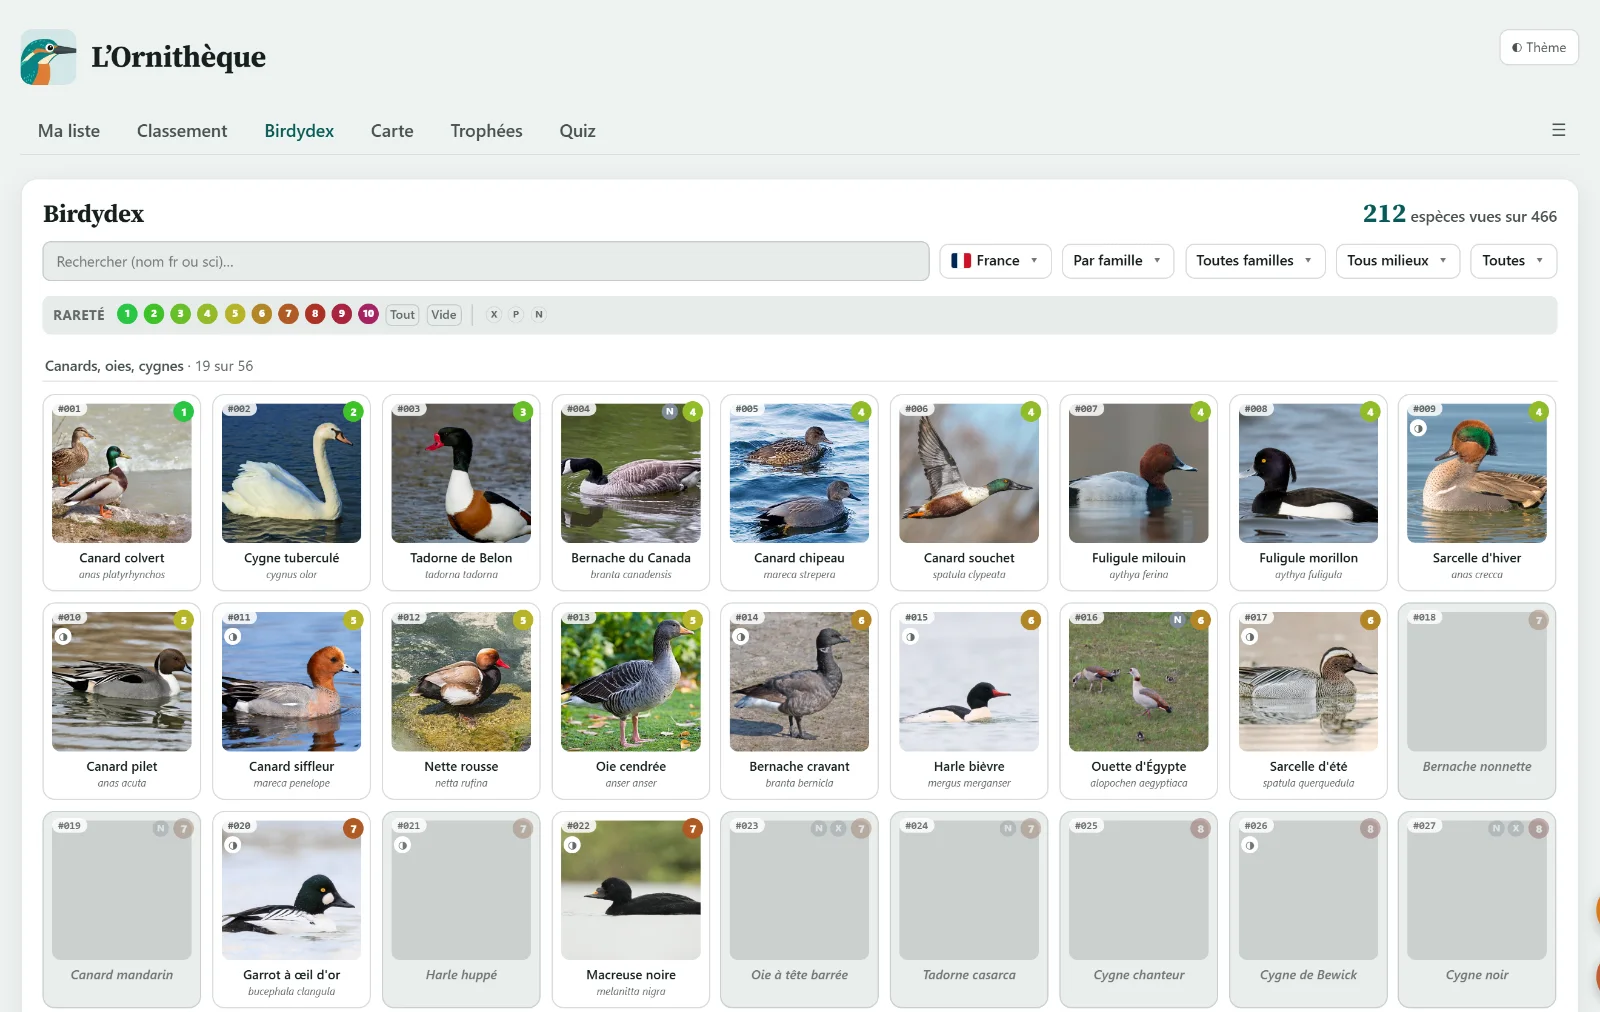
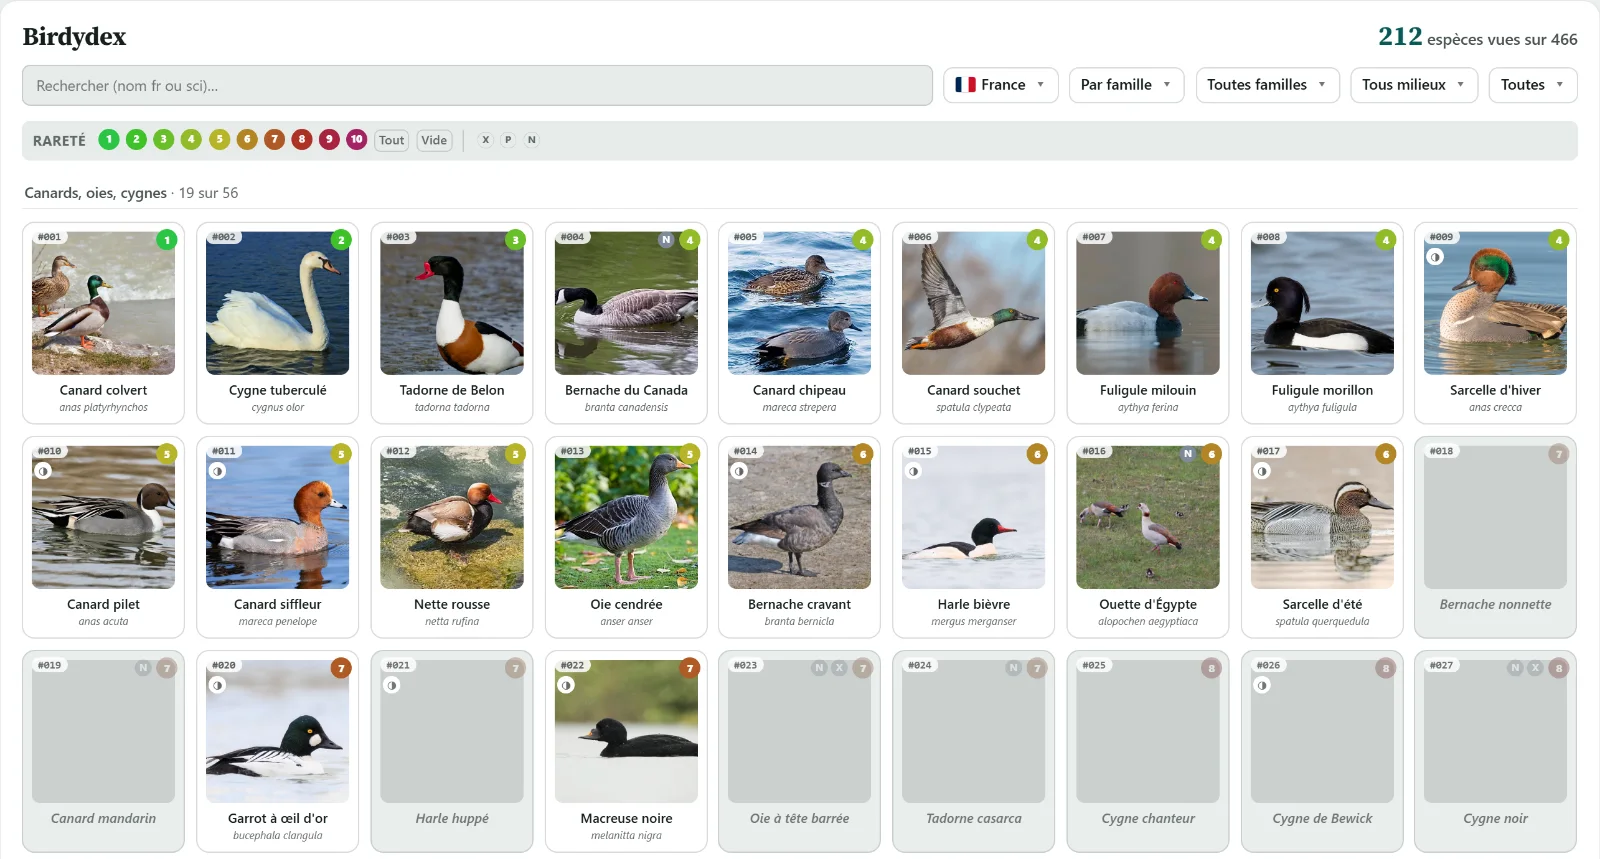
Page L'Ornithèque : Birdydex recadré sur son panneau, sans l'entête du site ni les boutons ronds

diff --git a/ornitheque.html b/ornitheque.html
@@ -102,7 +102,7 @@
     </div>
 
     <figure class="plate">
-      <a href="projet-ornitheque-birdydex.webp" target="_blank" rel="noopener"><img width="1600" height="1012" loading="lazy" src="projet-ornitheque-birdydex.webp" alt="Birdydex, les espèces régulières en France rangées par famille"></a>
+      <a href="projet-ornitheque-birdydex.webp" target="_blank" rel="noopener"><img width="1600" height="859" loading="lazy" src="projet-ornitheque-birdydex.webp" alt="Birdydex, les espèces régulières en France rangées par famille"></a>
       <figcaption>Le Birdydex&nbsp;: les 466 espèces régulières en France, rangées par famille, en couleur celles déjà vues. Chaque vignette ouvre la fiche de l’espèce.<br><a class="zoom" href="projet-ornitheque-birdydex.webp" target="_blank" rel="noopener" aria-label="Pleine résolution, nouvel onglet : Birdydex, les espèces régulières en France rangées par famille">Pleine résolution ↗</a></figcaption>
     </figure>
 
